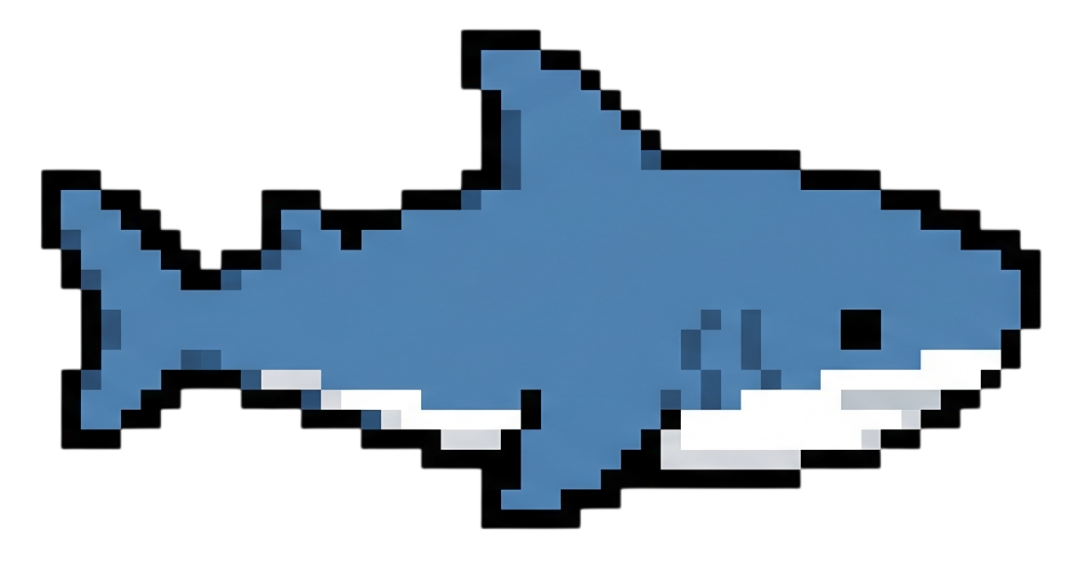
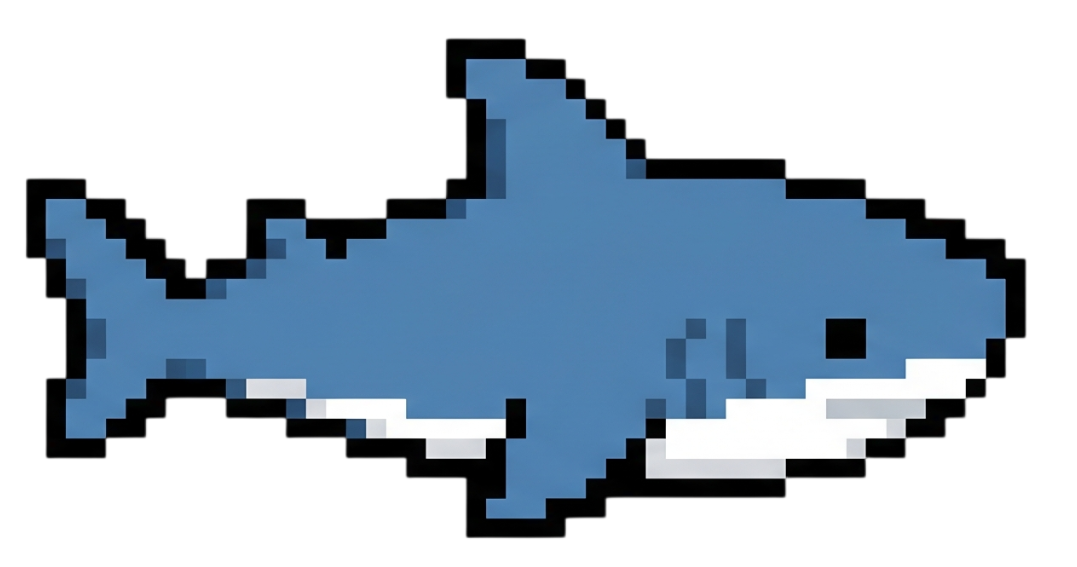
Add a counter for inventory and visualize in program

Changed region(s): [[0.0, 0.03, 0.9805, 0.9594]]

diff --git a/src/project.py b/src/project.py
@@ -6,13 +6,14 @@ import os
 blue = (0, 81, 186)
 yellow = (255, 218, 0)
 brown = (101, 67, 33)
+white = (255, 255, 255)
 exterior = "parking lot"
-interior = "marketplace"
+interior = "furniture"
 
 class character:
     def __init__(self, x, y, images):
         self.pos = pygame.Vector2(x, y)
-        self.size = [70, 45]
+        self.size = [75, 45]
         self.images = images
         self.speed = 200
         # Default starting position
@@ -77,7 +78,7 @@ class shelf:
 
 class items:
     def __init__(self, x, y, image, name):
-        self.rect = pygame.Rect(x, y, 50, 50)
+        self.rect = image.get_rect(topleft=(x,y))
         self.image = image
         self.name = name
         self.collected = False
@@ -86,10 +87,11 @@ class items:
         if not self.collected:
             screen.blit(self.image, (self.rect.x, self.rect.y))
 
+
+
 def main():
     pygame.init()
     pygame.display.set_caption("Shopping at 1KEA")
-
     resolution = (0,0)
     screen = pygame.display.set_mode(resolution, pygame.FULLSCREEN)
     width, height = screen.get_size()
@@ -108,9 +110,27 @@ def main():
             return pygame.transform.scale(py_img, size)
         return pygame.transform.scale(py_img, (width, height))
     
-    
-    char_size = (85,60)
 
+
+    # Progress bar to keep track of inventory
+    def progress_bar(inventory_count):
+        bar_x, bar_y = 90, 70
+        max_width = 180
+        height = 30
+        radius = 15
+
+        pygame.draw.rect(screen, white, (bar_x-2, bar_y-2, max_width+4, height+4), 7, border_radius=radius+2)
+        fill_width = (inventory_count / 3) * max_width
+        pygame.draw.rect(screen, blue, (bar_x, bar_y, max_width, height), border_radius=radius)
+        fill_width = (inventory_count / 3) * max_width
+
+        if inventory_count > 0:
+            pygame.draw.rect(screen, yellow, (bar_x, bar_y, fill_width, height), border_radius=radius)
+        pygame.draw.rect(screen, blue, (bar_x, bar_y, max_width, height), 3, border_radius=radius)
+    
+
+
+    char_size = (85,60)
     # Import shark images
     shark_images = {
         "up": load("shark_back.png", alpha=True, size=char_size),
@@ -122,8 +142,12 @@ def main():
     for key in shark_images:
         shark_images[key] = pygame.transform.scale(shark_images[key], char_size)
     
+
+
     # Items list
     inventory = []
+    win_announced = False
+    last_inventory_count = -1
     bag_img = load("itemsbag.png", alpha=True, size=(70,80))
     bear_img = load("itemsbear.png", alpha=True, size=(80,100)) 
     shark_img = load("itemsshark.png", alpha=True, size=(90,80)) 
@@ -133,6 +157,27 @@ def main():
         items(820, 200, bear_img, "Djunkelskog"),
         items(1270, 230, shark_img, "Blahaj")
     ]
+
+    # Import progress bar images
+    try:
+        count_images = [
+            load("0.png", alpha=True, size=(40,20)),
+            load("1.png", alpha=True, size=(40,20)),
+            load("2.png", alpha=True, size=(40,20)),
+            load("3.png", alpha=True, size=(40,20)),
+        ]
+    except Exception as e:
+        print(f"Error loading images: {e}")
+        count_images = [pygame.Surface((60, 30)) for _ in range(4)]
+
+
+    try:
+        collected_img = load("CollectedItems.png", alpha=True, size=(125,25))
+    except Exception as e:
+        print(f"Error loading images: {e}")
+        collected_img = pygame.Surface((125, 25))
+
+
 
     # Import background assets with furniture
     try:
@@ -195,6 +240,8 @@ def main():
         shelf(1120, 690, 255, 80)
     ]
 
+
+
     # Event Loop
     running =True
     while running:
@@ -211,8 +258,8 @@ def main():
             player.check_bounds(width, height)
             screen.blit(bg_ext, (0,0))
 
-            for obj in obstacles_ext:
-               obj.draw(screen)
+            #for obj in obstacles_ext:
+             #  obj.draw(screen)
 
             # Door triggers entry into interior 
             player_rect = pygame.Rect(player.pos.x, player.pos.y, player.size[0], player.size[1])
@@ -225,8 +272,8 @@ def main():
             player.check_bounds(width, height)
             screen.blit(bg_int, (0,0))
 
-            for obj in obstacles_int:
-                obj.draw(screen)
+            #for obj in obstacles_int:
+             #   obj.draw(screen)
 
             player_rect = pygame.Rect(player.pos.x, player.pos.y, player.size[0], player.size[1])
             
@@ -246,6 +293,42 @@ def main():
                 player.pos = pygame.Vector2(width//2, height//2)
             
         player.draw(screen)
+        current_count_image = count_images[len(inventory)]
+        progress_bar(len(inventory))
+
+        icon_x = 280
+        icon_y = 65
+        spacing = 50
+
+        icon_list = [
+            {"name": "1KEA bag", "img": bag_img},
+            {"name": "Djunkelskog", "img": bear_img},
+            {"name": "Blahaj", "img": shark_img},
+        ]
+
+        screen.blit(collected_img, (287,35))
+
+        for i, item_info in enumerate(icon_list):
+            mini_img = pygame.transform.scale(item_info["img"], (40, 40))
+            if item_info["name"] in inventory:
+                screen.blit(mini_img, (icon_x + (i * spacing), icon_y))
+            else:
+                mini_img.fill((50,50,50), special_flags=pygame.BLEND_RGB_MULT)
+                screen.blit(mini_img, (icon_x + (i * spacing), icon_y))
+
+
+        screen.blit(current_count_image, (160,75))
+        
+        # Track inventory
+        if len(inventory) != last_inventory_count:
+            inventory_text = f"Inventory: {len(inventory)} / 3 items"
+            print(inventory_text)
+            last_inventory_count = len(inventory)
+
+        # Finish collecting all items
+        if len(inventory) == 3 and not win_announced:
+            print("WINNER! All items collected.")
+            win_announced = True
         pygame.display.flip()
     pygame.quit()
     sys.exit()